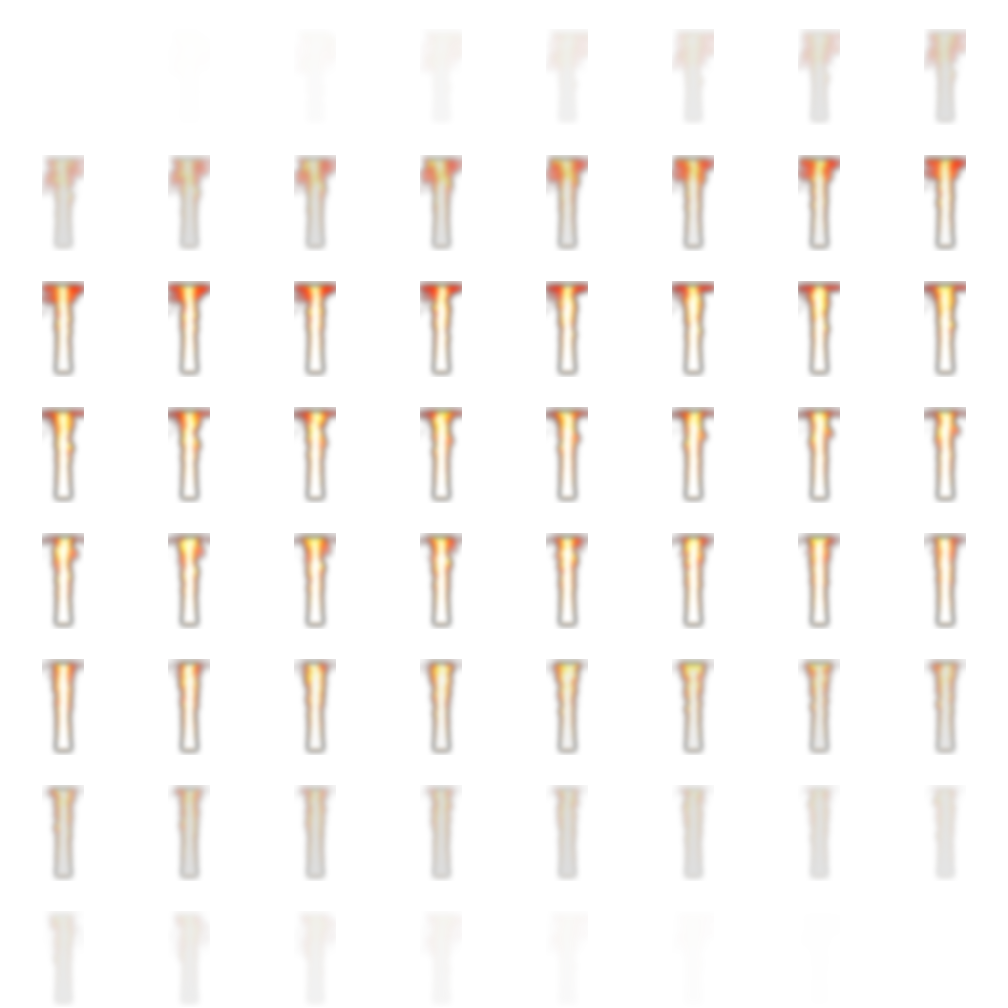
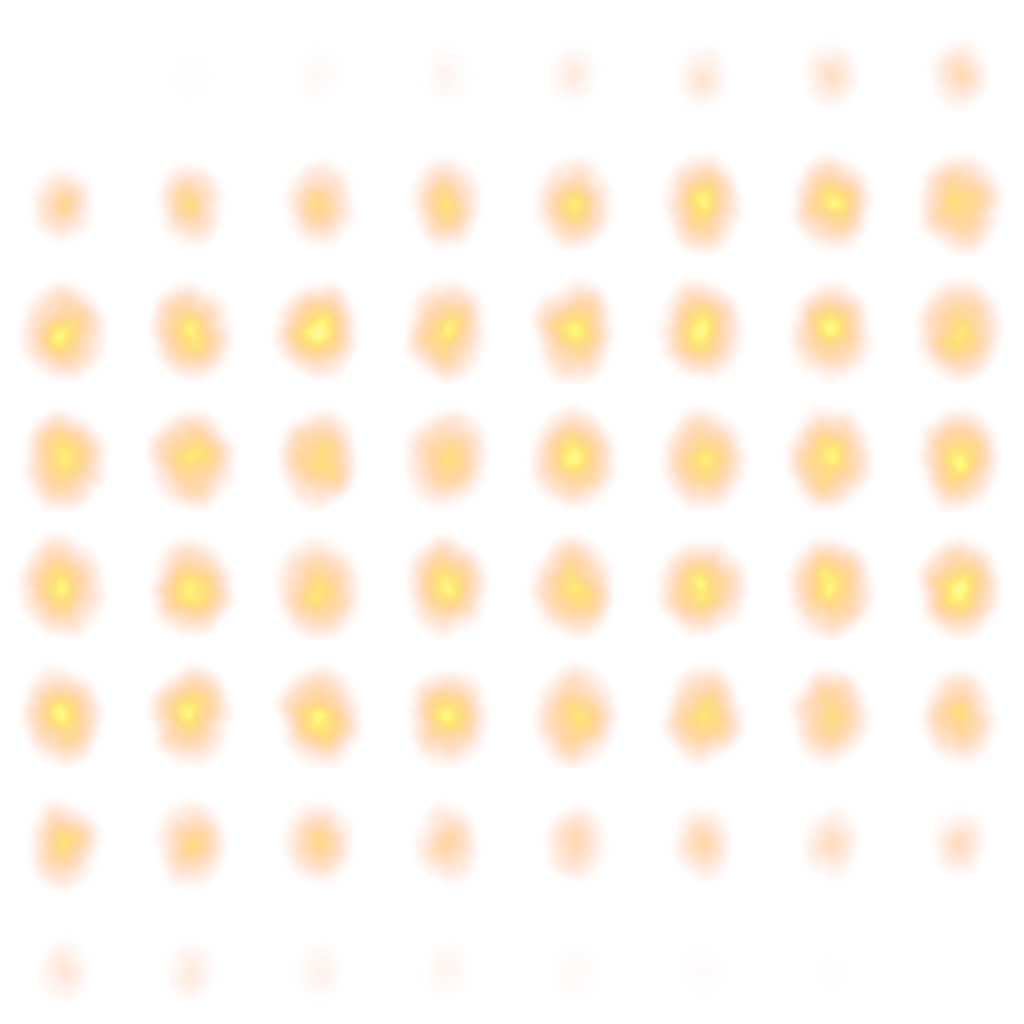
feat(jpov): 火贴图改为经典「小火团 puff」flipbook + 放开发射形状
- 发现：仿真火柱是连续柱体，对它做任何方形裁剪都还是「一根竖直火」→ 仍读作「整根火柱盖章」。
  故火贴图改用**程序化 puff**（make_flipbook.py 新增 puff 模式）：每格 = 一小团火
  （不规则软轮廓 + 内部 fbm 细节 + 随帧闪烁 + 点火→峰值→熄灭包络），软边、无硬边。
- 发射形状放开（radius 0.22、锥角 ±26°、尺寸略大）——原来太窄，粒子叠成一根铅笔柱。
- 真烟（子发射器）保留。

diff --git a/tools/jpov/tools/fire/make_flipbook.py b/tools/jpov/tools/fire/make_flipbook.py
@@ -51,6 +51,83 @@ def load_jpovvol(path):
 
 # ---------------- 颜色 ----------------
 
+def _hash01(ix, iy, seed):
+    h = (ix * 374761393 + iy * 668265263 + seed * 2246822519) & 0xFFFFFFFF
+    h ^= h >> 13
+    h = (h * 1274126177) & 0xFFFFFFFF
+    h ^= h >> 16
+    return h / 4294967296.0
+
+
+def _value_noise(x, y, seed):
+    ix = int(np.floor(x))
+    iy = int(np.floor(y))
+    fx = x - ix
+    fy = y - iy
+    ux = fx * fx * (3.0 - 2.0 * fx)
+    uy = fy * fy * (3.0 - 2.0 * fy)
+    a = _hash01(ix, iy, seed)
+    b = _hash01(ix + 1, iy, seed)
+    c = _hash01(ix, iy + 1, seed)
+    d = _hash01(ix + 1, iy + 1, seed)
+    return (a + (b - a) * ux) * (1.0 - uy) + (c + (d - c) * ux) * uy
+
+
+def _fbm(x, y, seed, octaves=3):
+    v = 0.0
+    amp = 0.5
+    fx, fy = x, y
+    for i in range(octaves):
+        v += amp * _value_noise(fx, fy, seed + i * 17)
+        fx *= 2.03
+        fy *= 2.11
+        amp *= 0.5
+    return v / 0.875
+
+
+def render_puff(tiles, cell):
+    """烘「经典火舌 puff」flipbook：每格 = 一小团火（不规则软轮廓 + 内部噪声细节 +
+    随帧闪烁演化 + 点火→峰值→熄灭包络）。不需要体数据。"""
+    nframes = tiles * tiles
+    sheet = np.zeros((tiles * cell, tiles * cell, 4), np.float32)
+    xs = (np.arange(cell, dtype=np.float32) + 0.5) / cell
+    ys = (np.arange(cell, dtype=np.float32) + 0.5) / cell
+    U, V = np.meshgrid(xs, ys)          # V: 0=图像顶行
+    FY = 1.0 - V                        # FY: 0=底
+    dx = U - 0.5
+    dyv = FY - 0.40                     # 重心略偏下
+    ang = np.arctan2(dyv, dx)
+    rr = np.sqrt(dx * dx + (dyv * 0.82) ** 2)   # 竖直略拉长（火舌形）
+    for f in range(nframes):
+        t = f / float(max(1, nframes - 1))
+        env = min(t / 0.25, (1.0 - t) / 0.35)
+        env = 0.0 if env < 0.0 else (1.0 if env > 1.0 else env)
+        env = env * env * (3.0 - 2.0 * env)     # smoothstep 点火/熄灭
+        wob = np.vectorize(lambda a_: _fbm(np.cos(a_) * 1.4 + 0.5,
+                                           np.sin(a_) * 1.4 + 0.5,
+                                           int(f) * 13 + 7))(ang)
+        rad = (0.30 + 0.10 * wob) * (0.55 + 0.45 * env)
+        edge = np.clip(1.0 - rr / np.maximum(rad, 1e-4), 0.0, 1.0)
+        a = edge ** 1.25
+        detail = np.vectorize(lambda u_, v_: _fbm(u_ * 4.5, v_ * 4.5 + f * 0.35,
+                                                  int(f) * 29 + 3))(U, FY)
+        a *= (0.45 + 0.75 * detail)
+        a = np.clip(a * env, 0.0, 1.0)
+        R = np.full_like(a, 1.0)
+        G = np.clip(0.25 + 0.72 * np.minimum(1.0, a * 1.25), 0.0, 1.0)
+        B = a * a * a * 0.7
+        cellimg = np.zeros((cell, cell, 4), np.float32)
+        cellimg[..., 0] = R
+        cellimg[..., 1] = G
+        cellimg[..., 2] = B
+        cellimg[..., 3] = a
+        cellimg = box_blur(cellimg, 2, 2)
+        row = f // tiles
+        col = f % tiles
+        sheet[row * cell:(row + 1) * cell, col * cell:(col + 1) * cell, :] = cellimg
+    return (np.clip(sheet, 0.0, 1.0) * 255.0 + 0.5).astype(np.uint8)
+
+
 # 可分离盒模糊（(H,W,C) 图像；软化 flipbook 边缘，减“骰子/三角感”）。
 def box_blur(a, r=2, passes=2):
     a = a.astype(np.float32).copy()
@@ -145,13 +222,27 @@ def render_flipbook(vol, mode, tiles):
         y0, y1 = int(ys.min()), int(ys.max()) + 1
         x0, x1 = int(xs.min()), int(xs.max()) + 1
     if mode == "fire":
-        # 收窄到中央：要的是「一缕火舌」，不是一整片火幕。
-        xc = (x0 + x1) // 2
-        half = max(1, int((x1 - x0) * 0.28))
-        x0 = max(0, xc - half)
-        x1 = min(nx, xc + half)
+        # 「小火团」：裁一个**正方形**小块（边长 = 火宽的较小者），竖直放在火焰最亮处。
+        # 每格 = 一小团火（一段火焰），靠大量小粒子叠加成火 —— 而不是每粒一根整火柱。
+        w = x1 - x0
+        h = y1 - y0
+        side = max(16, min(w, h))
+        cx = (x0 + x1) // 2
+        tot = float(any_a.sum())
+        if tot > 0.0:
+            yy = np.arange(ny, dtype=np.float32)[:, None]
+            yc = int((any_a * yy).sum() / tot)
+        else:
+            yc = (y0 + y1) // 2
+        x0 = max(0, cx - side // 2)
+        x1 = min(nx, x0 + side)
+        x0 = max(0, x1 - side)
+        y0 = max(0, yc - side // 2)
+        y1 = min(ny, y0 + side)
+        y0 = max(0, y1 - side)
     ch = y1 - y0
     cw = x1 - x0
+    print("crop x[%d:%d] y[%d:%d] side=%d -> cell %dx%d" % (x0, x1, y0, y1, side if mode == 'fire' else -1, cw, ch))
     cell = int(max(ch, cw) * 1.30) + 2   # cell 含 ~30% 透明内边距
 
     sheet = np.zeros((tiles * cell, tiles * cell, 4), np.float32)
@@ -200,6 +291,13 @@ def main():
     in_path = sys.argv[2]
     out_path = sys.argv[3]
     tiles = int(sys.argv[4]) if len(sys.argv) > 4 else 8
+
+    if mode == "puff":
+        cell = int(sys.argv[2]) if False else 128   # puff 不需要体输入
+        rgba = render_puff(tiles, cell)
+        write_png(out_path, rgba)
+        print("wrote %s (puff, %dx%d)" % (out_path, rgba.shape[1], rgba.shape[0]))
+        return 0
 
     vol = load_jpovvol(in_path)
     print("volume: frames=%d nz=%d ny=%d nx=%d ch=%d" % vol.shape)

diff --git a/tools/jpov/demo/fire_fog_viewer_app.h b/tools/jpov/demo/fire_fog_viewer_app.h
@@ -53,11 +53,11 @@ inline jpov::particles::EmitterConfig MakeFireConfig() {
     c.origin = {0.0f, 0.80f, 0.0f};   // 桌面上方
     c.rate = 160.0f;
     c.shape = jpov::particles::ShapeKind::kCone;
-    c.radius = 0.12f;
-    c.cone_half_angle_deg = 14.0f;
+    c.radius = 0.22f;
+    c.cone_half_angle_deg = 26.0f;
     c.lifetime = {0.75f, 1.1f};
     c.speed = {0.7f, 1.3f};
-    c.size_start = {0.22f, 0.36f};
+    c.size_start = {0.28f, 0.5f};
     c.rotation = {0.0f, 6.2831853f};
     c.gravity = {0.0f, 1.9f, 0.0f};
     c.drag = 0.9f;
@@ -179,7 +179,7 @@ public:
     // 面板用影子标量（逐步映射到 fire_cfg_，避免直接改 RangeF 导致 min>max 崩溃）。
     float ui_fire_rate_ = 160.0f;
     float ui_fire_life_ = 1.1f;
-    float ui_fire_size_ = 0.36f;
+    float ui_fire_size_ = 0.5f;
     float ui_fire_speed_ = 1.3f;
     float ui_fire_buoy_ = 1.9f;
     float ui_fire_drag_ = 0.9f;
